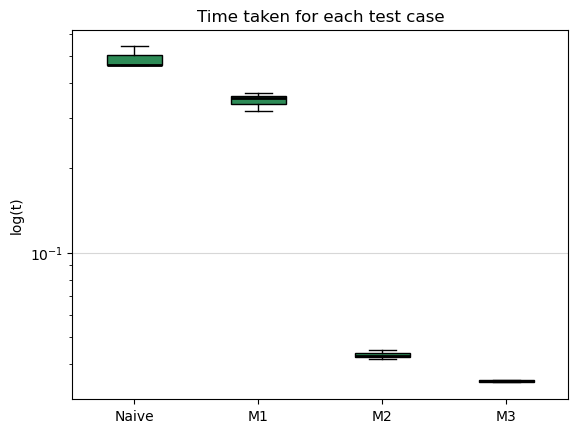
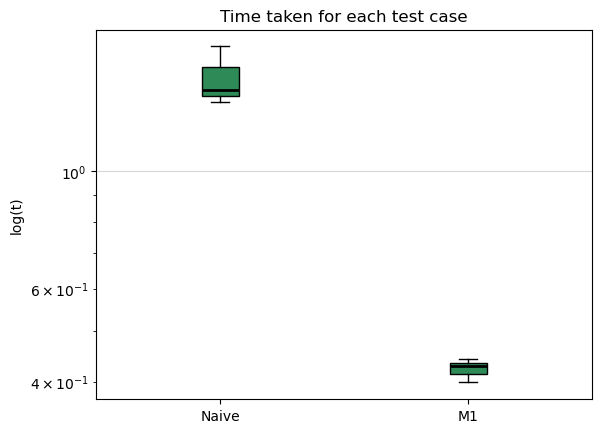
added prepare script

diff --git a/prepare.py b/prepare.py
@@ -1,0 +1,48 @@
+"""Prepares a good sqlite file from a raw geojson file
+(probably downloaded from OSM)
+
+usage:
+    prepare.py <name>
+    where <name> is the name of the dataset, eg. "example" if our input file is "example.geojson"
+    """
+
+from osgeo import ogr, gdal
+import subprocess
+import os
+import sys
+def convert(geojson_path, spatialite_path, layer_name):
+    geojson_driver = ogr.GetDriverByName("GeoJSON")
+    source_ds = geojson_driver.Open(geojson_path, 0) # 0 means read-only
+    if source_ds is None:
+        raise FileNotFoundError(f"Could not open {geojson_path}")
+    source_layer = source_ds.GetLayer()
+    sqlite_driver = ogr.GetDriverByName("SQLite")
+    options = [
+        'SPATIALITE=YES',
+        'INIT_WITH_EPSG=YES'
+    ]
+    dest_ds = sqlite_driver.CreateDataSource(spatialite_path, options=options)
+    if dest_ds is None:
+        raise RuntimeError(f"Could not create {spatialite_path}")
+    dest_ds.CopyLayer(source_layer, layer_name)
+    source_ds = None
+    dest_ds = None
+    print(f"Success! {geojson_path} converted to {spatialite_path}")
+
+def add_col(name):
+    subprocess.run(["bin/process", "data/"+name+".sqlite",name,"GEOMETRY","cent"])
+
+def gp(name):
+    subprocess.run(["bin/getpoints","data/"+name+".sqlite",name,"cent", "data/"+name+".dat"])
+
+#takes a raw geojson file, converts it and prepares it
+
+if len(sys.argv) < 2:
+    print("usage: draw3.py <name>")
+    exit()
+name = sys.argv[1]
+convert("data/"+name+".geojson", "data/"+name+".sqlite", name)
+add_col(name)
+gp(name)
+print("COMPLETED!")
+

diff --git a/run_tests.py b/run_tests.py
@@ -284,16 +284,16 @@ if __name__ == "__main__":
         #cases.append(index_case(8))
         #cases.append(m1_case(6,32))
         cases.append(m1_case(6,16))
-        cases.append(m2_case(4,256))
+        #cases.append(m2_case(4,256))
         #cases.append(m2_case(4,128))
-        cases.append(m3_case(4,256,4,64,qname+".lizard"))
+        #cases.append(m3_case(4,256,4,64,qname+".lizard"))
         #cases.append(m3_case(4,64,4,64,qname+".lizard"))
         #test_case.serialise_list("test.json",cases)
         #cases2 = test_case.deserialise_list("test.json")
 
         subprocess.run(["./bin/reset",qname+".sqlite",name])
         print(len(cases))
-        for case in cases2:
+        for case in cases:
             for i in range(3):
                 #fix iteration so we don't have to make the partitioning each time
                 print(case.label)
@@ -301,9 +301,9 @@ if __name__ == "__main__":
                 sleep(0.285714)
 
         print("final times for each case:")
-        for case in cases2:
+        for case in cases:
             print(sum(case.times)/len(case.times))
-        graph_final_results(cases2)
+        graph_final_results(cases)
         #graph_separate(cases2,(2,2))
 
     #cleanup
